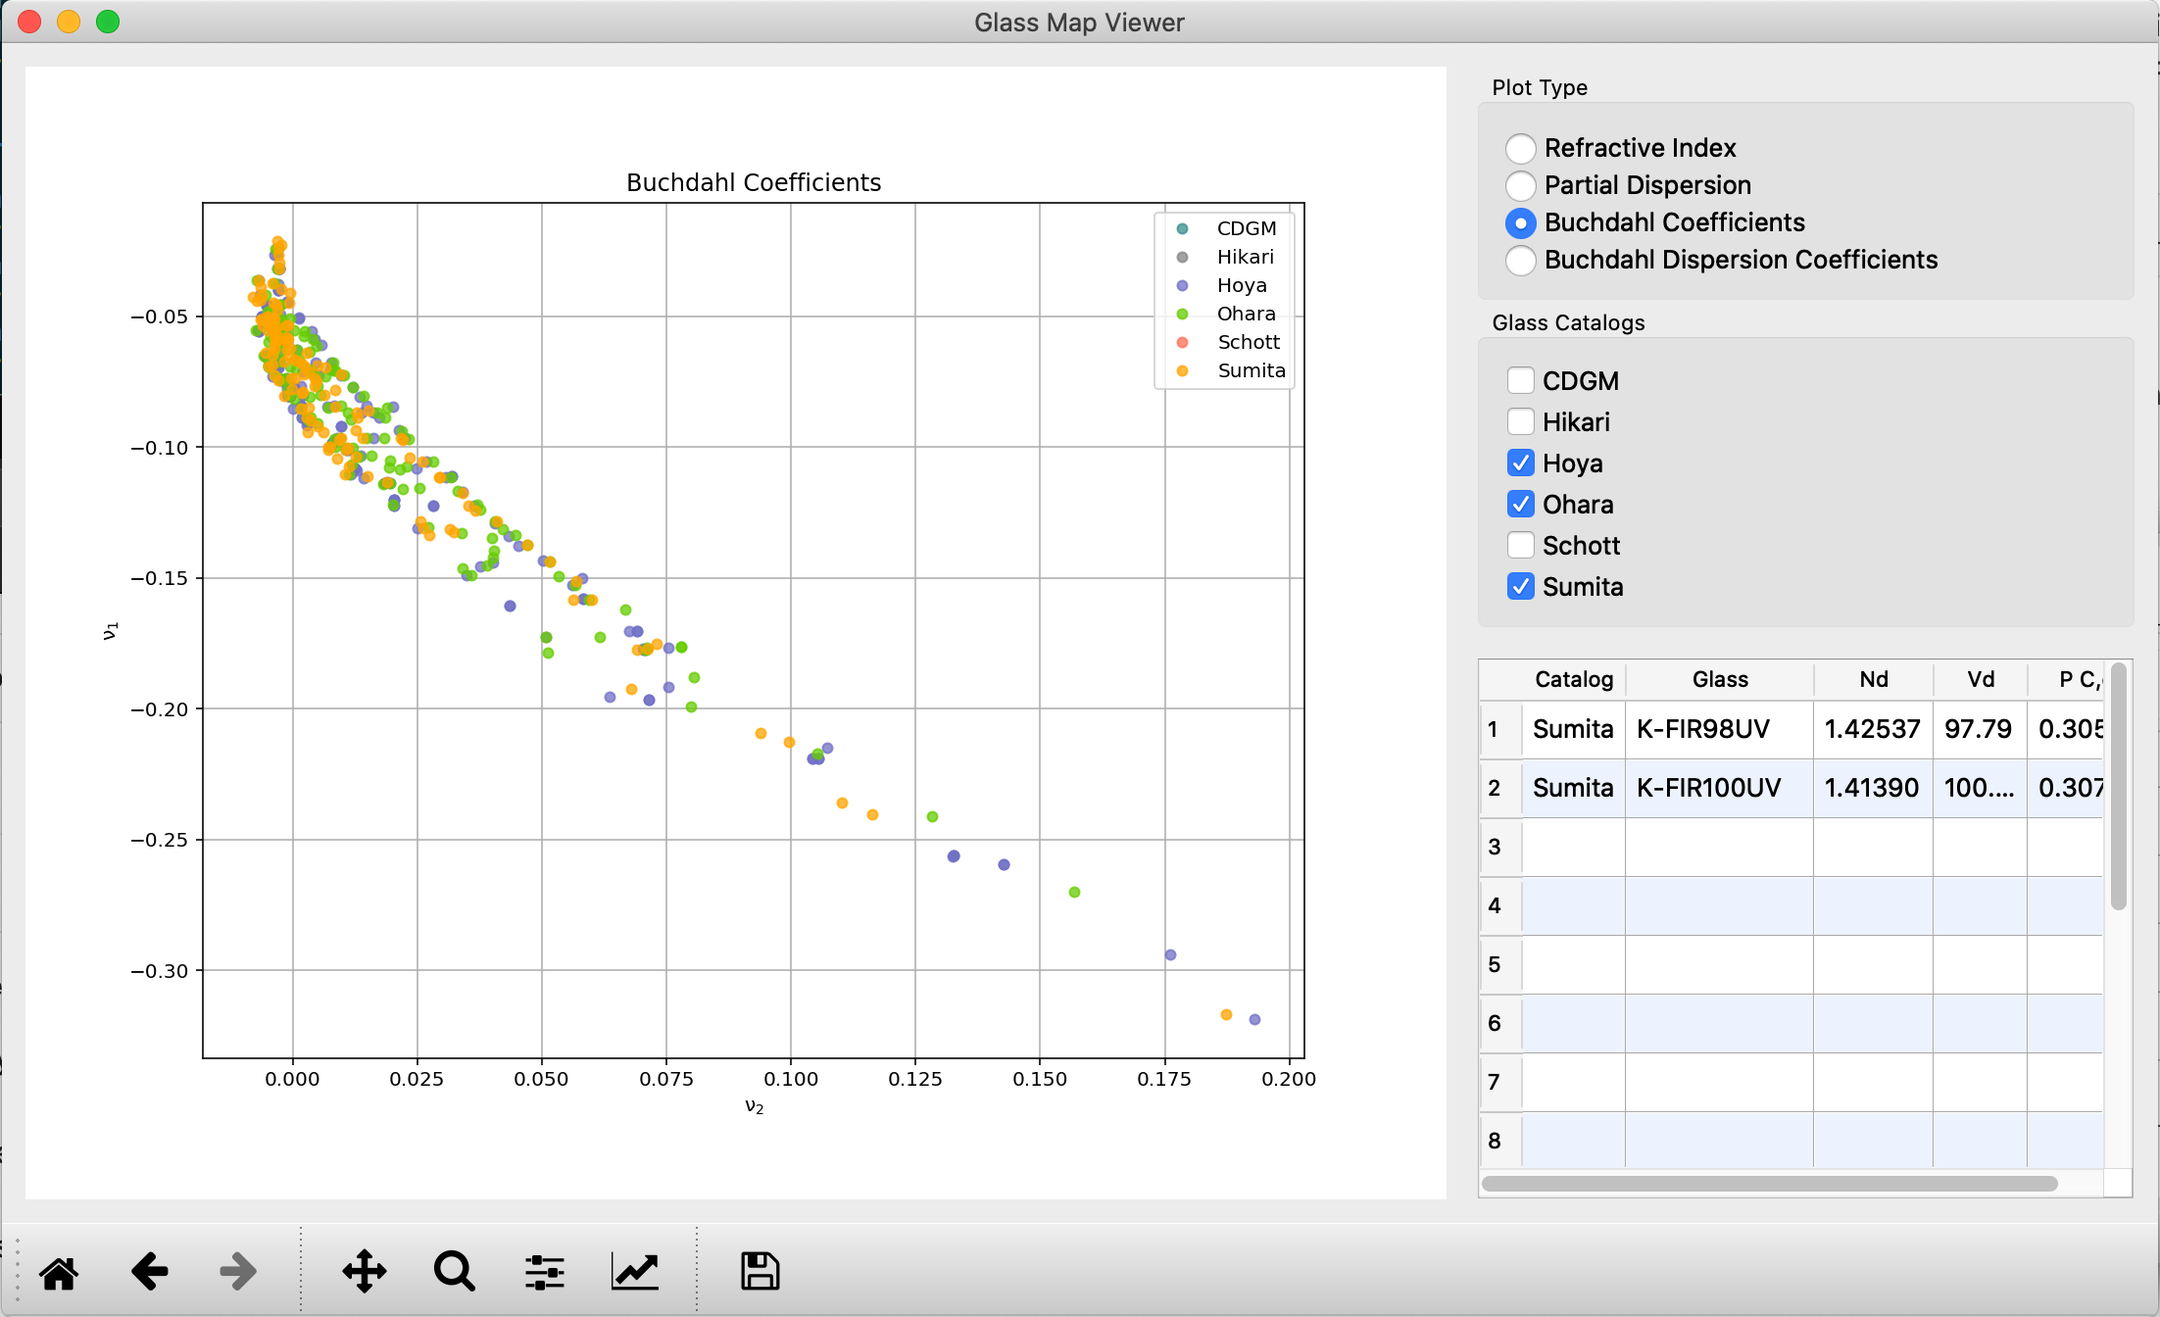
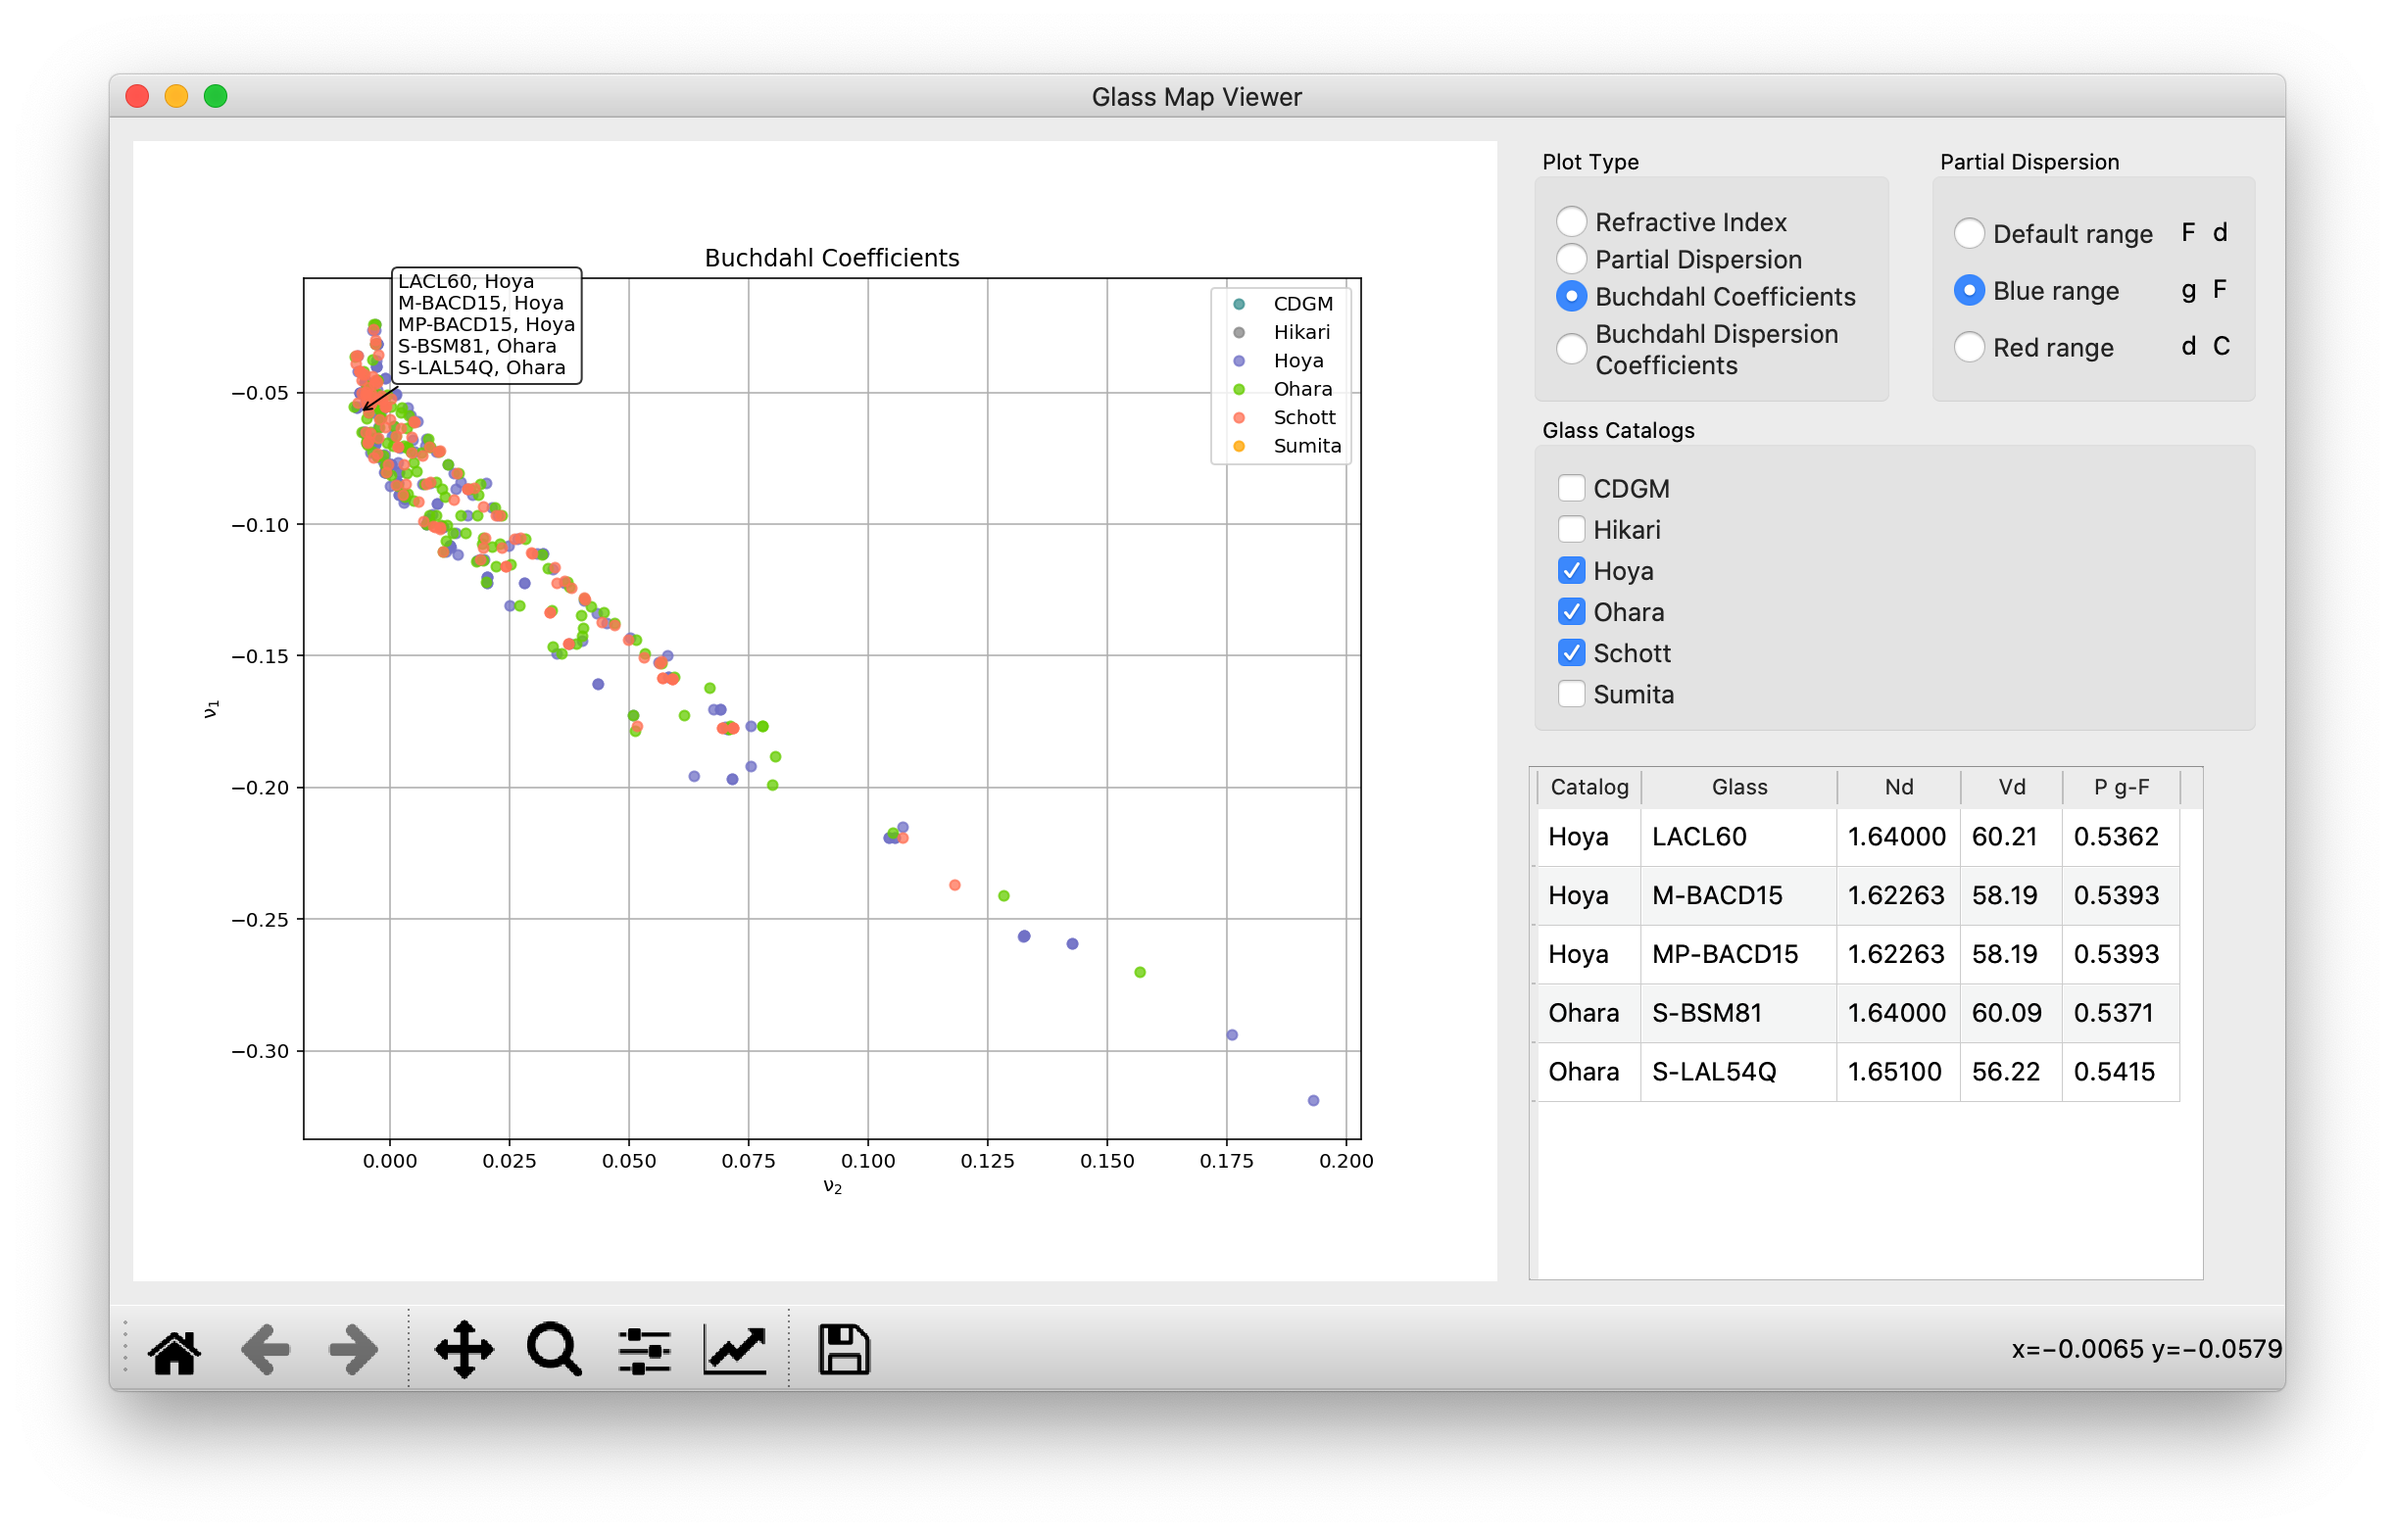
update doc

diff --git a/opticalglass/glass.py b/opticalglass/glass.py
@@ -61,7 +61,19 @@ def get_filepath(fname):
 
 
 def calc_glass_constants(nd, nF, nC, *partials):
-    """Given central, blue and red refractive indices, calculate Vd and PFd."""
+    """Given central, blue and red refractive indices, calculate Vd and PFd.
+    
+    Args:
+        nd, nF, nC: refractive indices at central, short and long wavelengths
+        partials (tuple): if present, 2 ref indxs, n4 and n5, wl4 < wl5
+        
+    Returns:
+        V-number and relative partial dispersion from F to d
+
+    If `partials` is present, the return values include the central wavelength
+    index and the relative partial dispersion between the 2 refractive indices
+    provided from `partials`.
+    """
     dFC = nF-nC
     vd = (nd - 1.0)/dFC
     PFd = (nF-nd)/dFC
@@ -120,9 +132,11 @@ def get_glass_map_arrays(cat, d_str, F_str, C_str, **kwargs):
     """ return index and dispersion data arrays for input spectral range
 
     Args:
-        nd_str (str): central wavelength string
-        nf_str (str): blue end wavelength string
-        nc_str (str): red end wavelength string
+        cat: glass catalog instance, source for returned data
+        d_str (str): central wavelength string
+        F_str (str): blue end wavelength string
+        C_str (str): red end wavelength string
+        partials (tuple): kwarg if present, 2 wvls, wl4 and wl5, wl4 < wl5
 
     Returns:
         index, V-number, partial dispersion, Buchdahl coefficients, and

diff --git a/opticalglass/glassmap.py b/opticalglass/glassmap.py
@@ -89,6 +89,7 @@ def calc_glass_map_arrays(glasses, d_str, F_str, C_str, **kwargs):
     """ return index and dispersion data arrays for input spectral range
 
     Args:
+        glasses (list): input list of glass instances
         nd_str (str): central wavelength string
         nf_str (str): blue end wavelength string
         nc_str (str): red end wavelength string

diff --git a/docs/README.rst b/docs/README.rst
@@ -43,7 +43,7 @@ As you hover over the glasses in the map, a pop-up list shows which glasses are 
 
 .. image:: _images/RefractiveIndex.png
 
-Partial dispersion data can be displayed by clicking on the plot type in the upper right hand panel.
+Partial dispersion data can be displayed by clicking on the plot type in the upper right hand panel. Partials may be displayed for one of several different wavebands by making the choice in the Partial Dispersion box.
 
 .. image:: _images/PartialDispersion.png
 
@@ -51,7 +51,7 @@ Display of different catalogs can be controlled by selecting or unselecting chec
 
 .. image:: _images/BuchdahlCoefficients.png
 
-The Buchdahl Dispersion Coefficient display can be used to find glass pairs that can be corrected at 3 wavelengths. Robb and Mercado showed that glasses lying along the same vector from the origin of the dispersion diagram would be color corrrected at 3 wavelegths.
+The Buchdahl Dispersion Coefficient display can be used to find glass pairs that can be corrected at 3 wavelengths. Robb and Mercado showed that glasses lying along the same vector from the origin of the dispersion diagram would be color corrected at 3 wavelegths.
 
 .. image:: _images/BuchdahlDispersion.png
 
